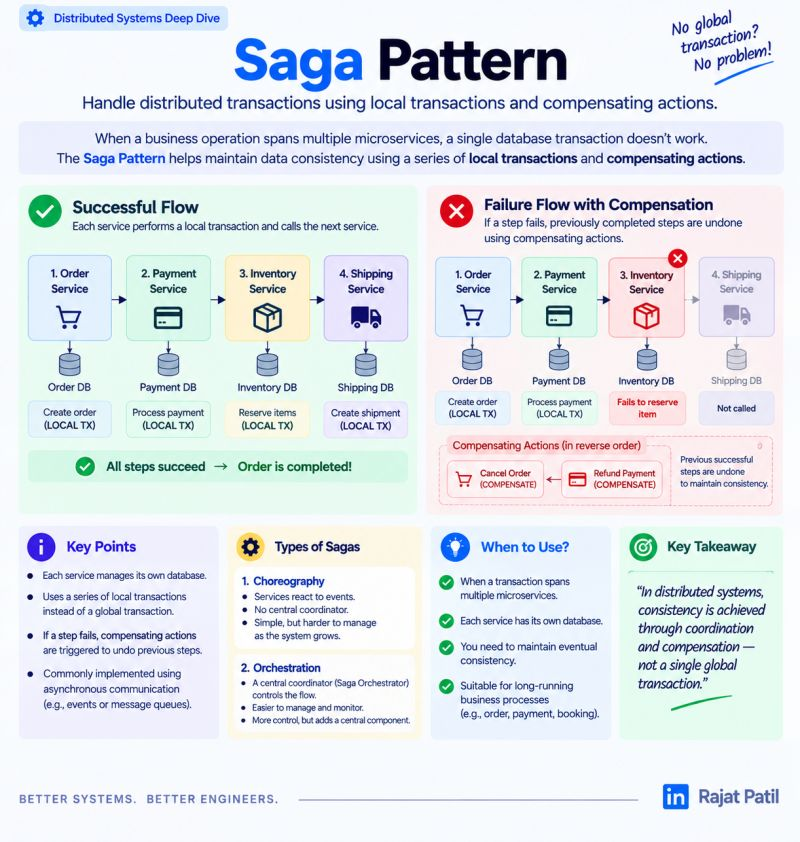
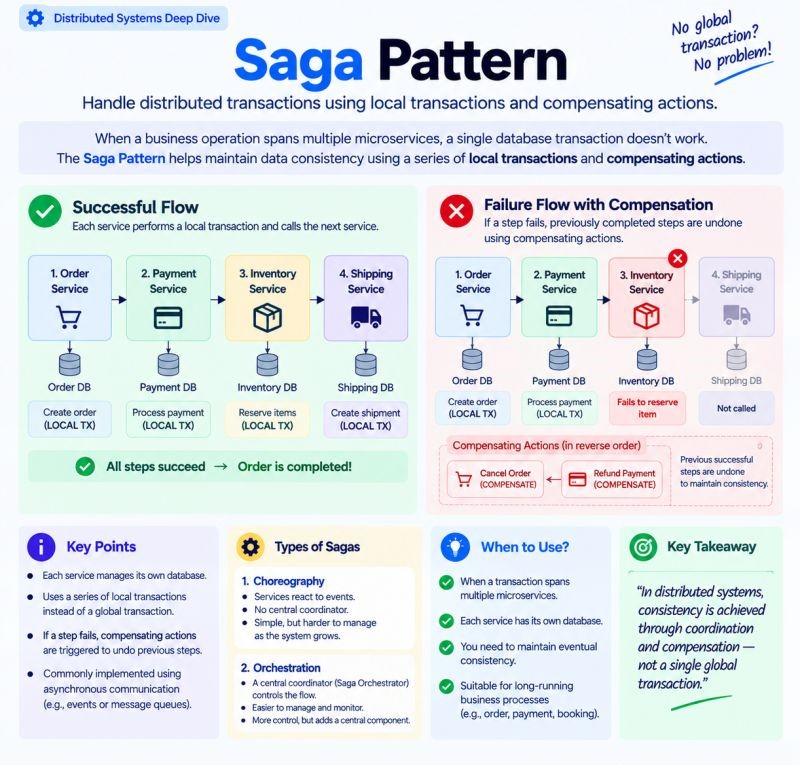
saga update

Changed region(s): [[0.0312, 0.0, 1.0, 0.9621], [0.0312, 0.0, 0.2812, 0.0601]]

diff --git a/src/Dotnet/Netquestions.js b/src/Dotnet/Netquestions.js
@@ -231,13 +231,10 @@ protected override void OnModelCreating(ModelBuilder modelBuilder)
         <b>14. How do you handle a transaction that spans multiple microservices?</b>
         <pre style={{ background: '#f5f5f5', padding: '1rem', overflowX: 'auto' }}>
           <code>
-{`A single database transaction doesn’t work when each service owns its own database.
-
-That’s where the Saga Pattern comes in.
-
-Each service completes a local transaction and triggers the next step. If something fails, compensating actions are used to reverse the business effect of earlier steps.
-
-Interview takeaway: In distributed systems, consistency is often achieved through coordination and compensation not one global transaction.`}
+{`A single database transaction doesn’t work when each service owns its own database. That’s where the Saga Pattern comes in.
+Each service completes a local transaction and triggers the next step. If something fails, compensating actions are used to 
+reverse the business effect of earlier steps. Interview takeaway: In distributed systems, consistency is often achieved 
+through coordination and compensation not one global transaction.`}
           </code>
         </pre>
       </section>
